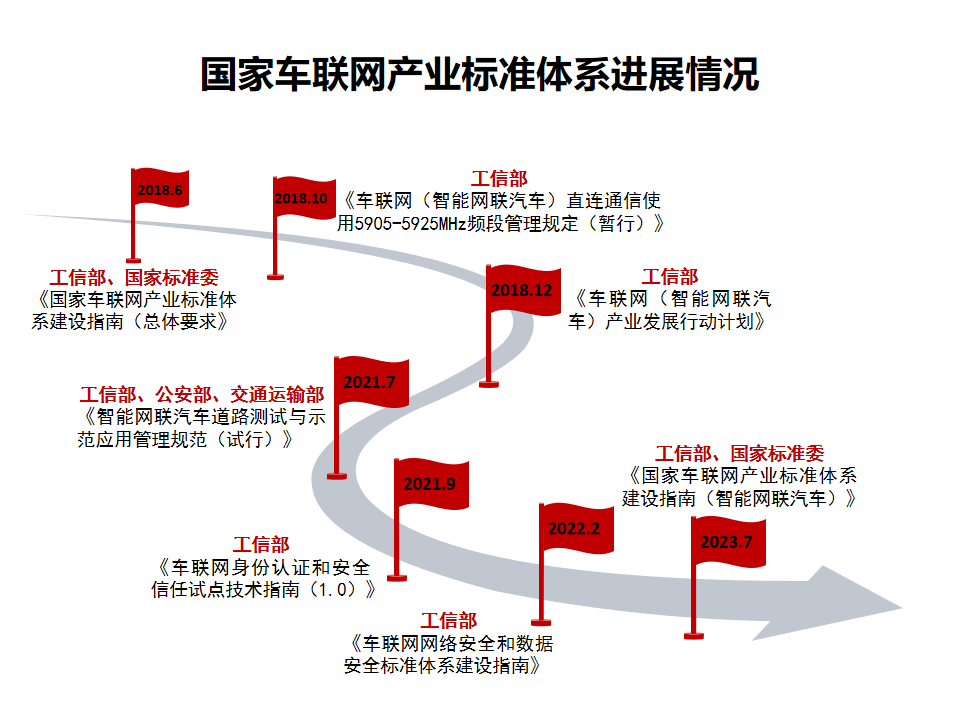
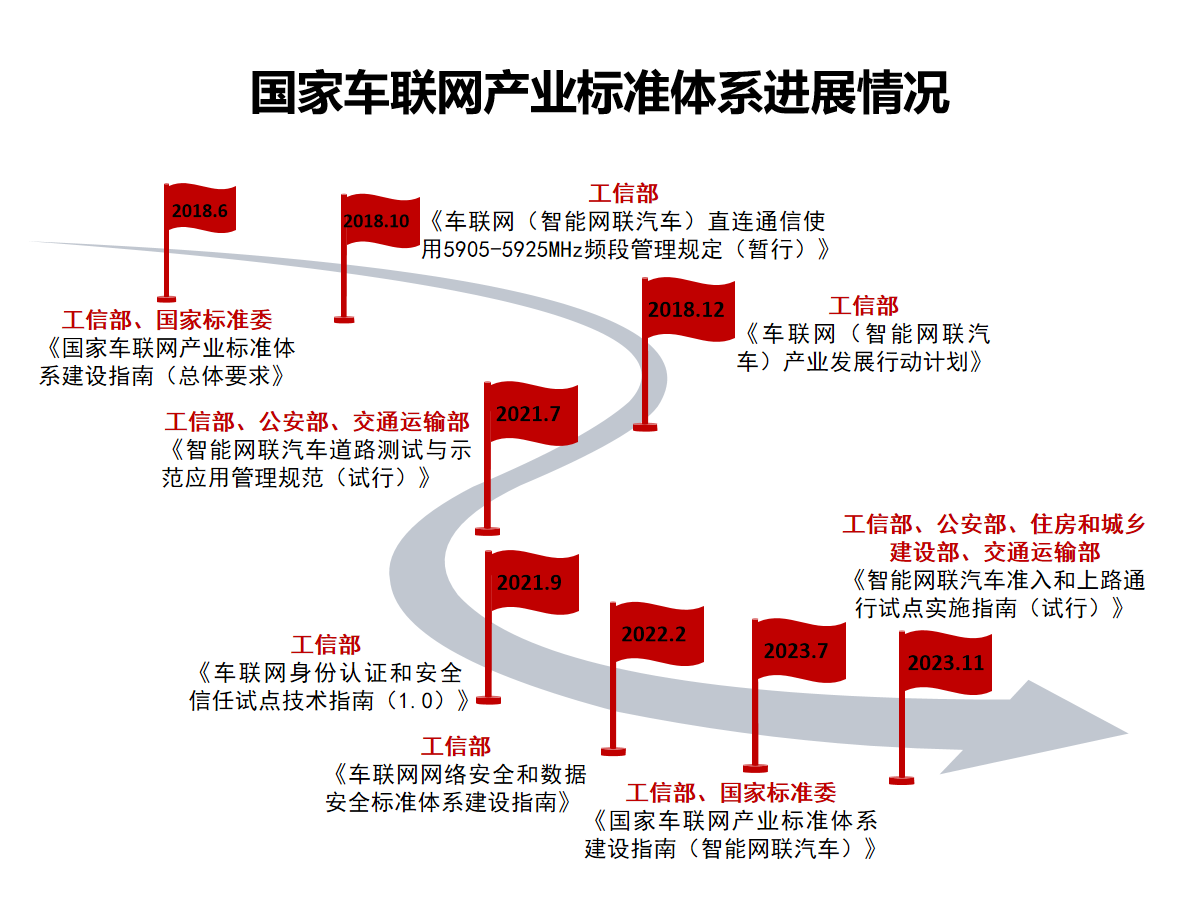
update20231210_whm

Changed region(s): [[0.0312, 0.1833, 0.9688, 0.9778], [0.1875, 0.0611, 0.8125, 0.1222]]

diff --git a/IoV_policy/国家车联网产业标准体系进展情况_资料收集.md b/IoV_policy/国家车联网产业标准体系进展情况_资料收集.md
@@ -1,3 +1,7 @@
+- 工业和信息化部 公安部 住房和城乡建设部 交通运输部 开展智能网联汽车准入和上路通行试点工作 2023年11月
+    - [[link]](https://www.gov.cn/zhengce/zhengceku/202311/content_6915788.htm)
+    - [[智能网联汽车准入和上路通行试点实施指南（试行）.pdf]](https://www.gov.cn/zhengce/zhengceku/202311/P020231117465865734883.pdf)
+
 - 工业和信息化部 国家标准化管理委员会关于印发《国家车联网产业标准体系建设指南（智能网联汽车）（2023版）》 2023年7月
     - [[link]](https://www.gov.cn/zhengce/zhengceku/202307/content_6894735.htm) 
     - [[国家车联网产业标准体系建设指南（智能网联汽车）（2023版）.pdf]](https://www.gov.cn/zhengce/zhengceku/202307/P020230727459713380334.pdf)
